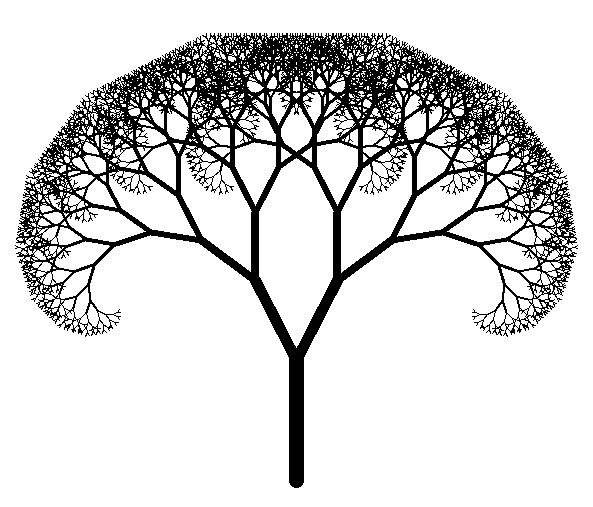
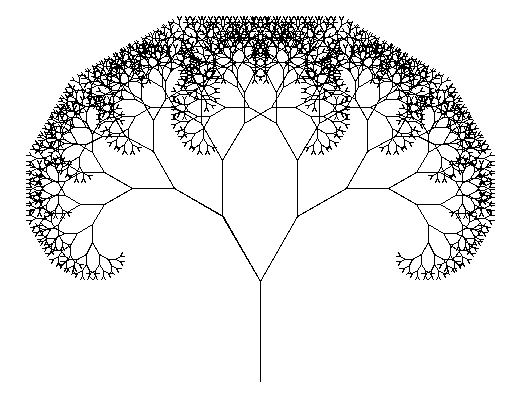
add task seven. fix task two

Changed region(s): [[0.0308, 0.0302, 0.9865, 0.9648], [0.6166, 0.4824, 0.6474, 0.5126]]

diff --git a/task_two/pythagoras_tree.py b/task_two/pythagoras_tree.py
@@ -1,41 +1,23 @@
 import turtle
 
-WIDTH = 15
-BRANCH_LENGTH = 120
-ROTATION_LENGTH = 27
+def tree(tr, level, width):
+    tr.forward(width)
+    tr.left(30)
+    if level > 0:
+        tree(tr, level - 1, 3 * width / 4)
+    tr.right(60)
+    if level > 0:
+        tree(tr, level - 1, 3 * width / 4)
+    tr.left(30)
+    tr.backward(width)
 
 def draw_tree_fractal():
     level = int(input('>>> Please input level of recursion: '))
-    turt = turtle.Turtle()
-    turt.hideturtle()
-    turt.speed('fastest')
-    turt.left(90)
-    turt.width(WIDTH)
-    turt.penup()
-    turt.back(BRANCH_LENGTH * 1.5)
-    turt.pendown()
-    turt.forward(BRANCH_LENGTH)
-    draw_tree(turt, BRANCH_LENGTH, level)
+    tr = turtle.Turtle()
+    tr.hideturtle()
+    tr.left(90)
+    tr.speed(150)
+    tree(tr, level, 100)
     turtle.done()
-
-def draw_tree(turt, branch_length, level):
-    width = turt.width()
-    turt.width(width * 3. / 4.)
-    branch_length *= 3. / 4.
-    turt.left(ROTATION_LENGTH)
-    turt.forward(branch_length)
-
-    if level > 0:
-        draw_tree(turt, branch_length, level - 1)
-    turt.back(branch_length)
-    turt.right(2 * ROTATION_LENGTH)
-    turt.forward(branch_length)
-
-    if level > 0:
-        draw_tree(turt, branch_length, level - 1)
-    turt.back(branch_length)
-    turt.left(ROTATION_LENGTH)
-
-    turt.width(width)
 
 draw_tree_fractal()

diff --git a/task_seven/monte_carlo.py b/task_seven/monte_carlo.py
@@ -1,0 +1,45 @@
+import random
+from rich.console import Console
+from rich.table import Table
+
+def roll_n_dices(dices_qty):
+    total = 0
+    for _ in range(dices_qty):
+        total += random.randint(1, 6)
+    return total
+
+def dice_roll_simulation(simulation_number):
+    dice_role_results = {i: 0 for i in range(2, 13)}
+
+    for _ in range(simulation_number):
+        total = roll_n_dices(2)
+        dice_role_results[total] += 1
+    
+    return dice_role_results
+
+def calculate_sum_probabilities(dice_role_results, simulation_number):
+    probabilities = []
+
+    for sum, count in dice_role_results.items():
+        probability = f"{count / simulation_number * 100:.2f}% ({count}/{simulation_number})"
+        probabilities.append([str(sum), probability])
+
+    return probabilities
+
+def print_table(rows):
+    table = Table(title="Probabilities")
+    columns = ["Sum", "Probability"]
+
+    for column in columns:
+        table.add_column(column)
+
+    for row in rows:
+        table.add_row(*row, style='bright_green')
+
+    console = Console()
+    console.print(table)
+
+simulation_number = 1000000
+dice_role_results = dice_roll_simulation(simulation_number)
+probabilities = calculate_sum_probabilities(dice_role_results, simulation_number)
+print_table(probabilities)

diff --git a/README.md b/README.md
@@ -1,1 +1,24 @@
-# goit-algo-fp
+# Final project
+
+### Завдання 7. Використання методу Монте-Карло
+
+Таблиця анаілтичних розрахунків імовірності випадіння сумм двох гральних кубиків:
+
+![alt text](./task_seven/dba25f8d-4764-46dc-bc57-6fc51c4e782a120.png)
+
+Таблиця розрахуків імоврностей випадіння сумм двох гральних кубиків методом Монте-Карло:
+
+![alt text](./task_seven/monte-carlo-results.png)
+
+### Висновки
+Було проведено симуляцію 1000000 кидків двох гральних кубиків і розрахувано імовірність  
+випадіння кожної можливої їх суми методом Монте-Карло.  
+У результаті ми наявно можемо побачити високу ефективність роботи цього методу при  
+великій кількості симуляцій. Якщо подивитися на дві таблички вищє, то різниця між  
+результатами мінімальна. Це доказує, що метод Монте-Карло доволі гарний інструмент  
+для проведення експерементів, симулюючи потрібні умови з великою кількість випадкових даних.  
+В рамках даної задачі він проявив собі доволі точно, але звичайно, такі показники можеть бути  
+не завжди. В цілому Монте Карло має похибку, і не відноситься до точних алгоритмів.  
+Точність залежить від велечини вибірки даних. Також, для підвищєння точносі результатів  
+він потребує більшоє пам'яті. Це є одним із недоліків цього алгоритму.  
+Там де пріорітетом є точність результатів цей алгоритм використовувати не можна.
